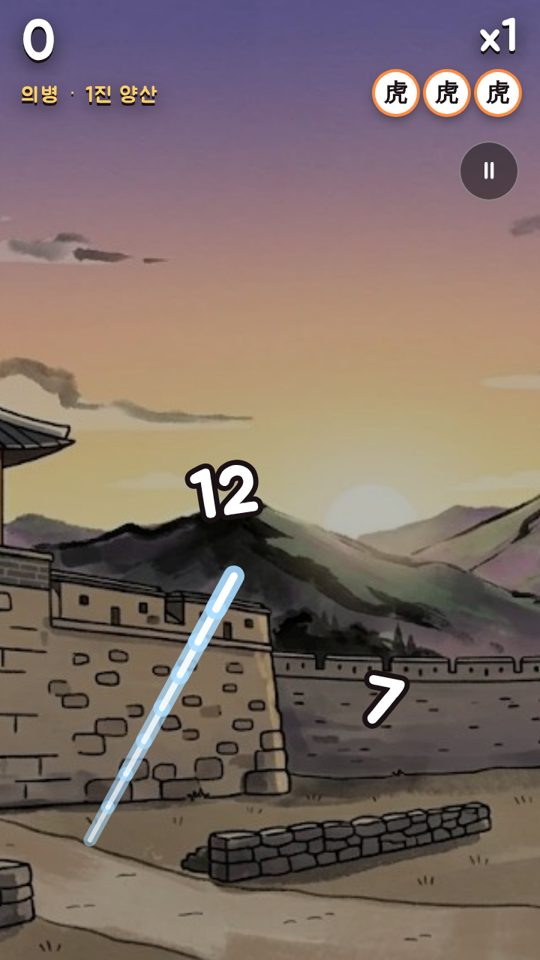
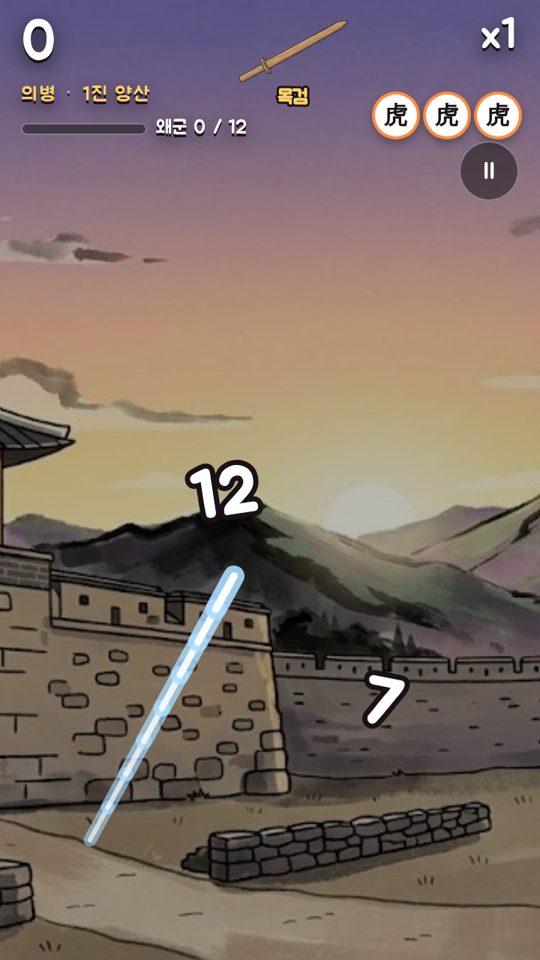
태블릿 화면 대응: 숫자·HUD 크기를 화면에 비례해 확대, 게임 방법 슬라이드 재촬영
Claude-Session: https://claude.ai/code/session_01CNYAtjoa8qW1Yic46L4mLL

Changed region(s): [[0.6815, 0.0, 0.9778, 0.1562], [0.0296, 0.0625, 0.4741, 0.1562], [0.4444, 0.0, 0.6519, 0.125]]

diff --git a/tools/capture-howto.js b/tools/capture-howto.js
@@ -14,8 +14,10 @@ const OUT = process.env.OUT;
     const g = window.__game; g.paused = true; g.numbers = []; g.particles = []; g.floaters = []; g.trail = [];
     g.stageBanner.until = 0; g.flash = null; g.spawnTimer = 99999; g.strokeId = (g.strokeId || 0) + 1;
     g.elapsed = 10000; g.score = opts.score || 0; g.lives = opts.lives || 3; g.streak = opts.streak || 0; g.multiplier = 1 + Math.floor(g.streak / 4);
-    g.stageIndex = opts.stage || 0;
-    g.emit('score', g.score); g.emit('lives', g.lives); g.emit('combo', g.multiplier); g.emit('stage', g.stageInfo());
+    g.stageIndex = opts.stage || 0; g.splits = opts.splits != null ? opts.splits : (g.diff.splitsPerStage * g.stageIndex);
+    g.stageStart = g.elapsed; g.swing = null;
+    g.emit('score', g.score); g.emit('lives', g.lives); g.emitCombo(); g.emit('stage', g.stageInfo());
+    g.lastProgress = ''; g.emitProgress();
   }, opts);
   const shot = (n) => page.screenshot({ path: `${OUT}/step-${n}.png` });
   // 베기 후 조각을 양옆으로 벌리고, 궤적은 숫자 중심까지만
@@ -23,7 +25,7 @@ const OUT = process.env.OUT;
     L.x -= 62; L.y -= 26; L.rot = -0.25; R.x += 62; R.y -= 26; R.rot = 0.25; g.render(performance.now()); });
 
   // 1. 숫자가 튀어오름 + 칼 궤적
-  await reset({ score: 0 });
+  await reset({ score: 0, splits: 0 });
   await page.evaluate(() => { const g = window.__game;
     const a = g.makeNumber(12, 150, 330, 0, -120); a.rot = -0.15; const b = g.makeNumber(7, 255, 470, 0, -300); b.rot = 0.2;
     g.numbers.push(a, b); const now = performance.now();
@@ -32,7 +34,7 @@ const OUT = process.env.OUT;
   await shot(1);
 
   // 2. 18 → 3 × 6
-  await reset({ score: 3, streak: 3 });
+  await reset({ score: 3, streak: 3, splits: 3 });
   await page.evaluate(() => { const g = window.__game; NumMath.randomPair = () => [3, 6];
     const n = g.makeNumber(18, 180, 300, 0, -80); g.numbers.push(n);
     g.strokeId += 1; g.cut(n, 100, 360, 260, 240);
@@ -41,7 +43,7 @@ const OUT = process.env.OUT;
   await spread(); await shot(2);
 
   // 3. 6 → 2 × 3 (3은 옆에 남아 있음)
-  await reset({ score: 4, streak: 4 });
+  await reset({ score: 4, streak: 1, splits: 4 });
   await page.evaluate(() => { const g = window.__game; NumMath.randomPair = () => [2, 3];
     const left = g.makeNumber(3, 95, 380, 0, -60); left.rot = -0.2; g.numbers.push(left);
     const n = g.makeNumber(6, 230, 300, 0, -80); g.numbers.push(n);
@@ -51,7 +53,7 @@ const OUT = process.env.OUT;
   await spread(); await shot(3);
 
   // 4. 소수 7 을 베면 "소수!" (양산: 벌칙 없음)
-  await reset({ score: 6, streak: 5 });
+  await reset({ score: 6, streak: 0, splits: 6 });
   await page.evaluate(() => { const g = window.__game;
     const n = g.makeNumber(7, 180, 320, 0, -80); g.numbers.push(n);
     const other = g.makeNumber(10, 290, 470, 0, -200); g.numbers.push(other);
@@ -61,7 +63,7 @@ const OUT = process.env.OUT;
   await shot(4);
 
   // 5. 14 를 놓침 → 목숨 -1
-  await reset({ score: 9, streak: 2, lives: 3 });
+  await reset({ score: 9, streak: 2, lives: 3, splits: 8 });
   await page.evaluate(() => { const g = window.__game;
     const n = g.makeNumber(14, 200, 700, 0, 300); g.onMiss(n); g.flash.until = performance.now() + 100000;
     const other = g.makeNumber(9, 120, 330, 0, -120); g.numbers.push(other);
@@ -69,7 +71,7 @@ const OUT = process.env.OUT;
   await shot(5);
 
   // 6. 제3진 청도 배너
-  await reset({ score: 31, streak: 6, stage: 2 });
+  await reset({ score: 31, streak: 6, stage: 2, splits: 24 });
   await page.evaluate(() => { const g = window.__game; g.showBanner(2); g.stageBanner.until = performance.now() + 100000;
     const a = g.makeNumber(21, 120, 560, 0, -300); g.numbers.push(a);
     const b = g.makeNumber(35, 260, 600, 0, -320); g.numbers.push(b);
@@ -78,7 +80,7 @@ const OUT = process.env.OUT;
   await shot(6);
 
   // 7. 배수 x3 으로 +3
-  await reset({ score: 40, streak: 7 });
+  await reset({ score: 40, streak: 7, splits: 9 });
   await page.evaluate(() => { const g = window.__game; NumMath.randomPair = () => [4, 5];
     const n = g.makeNumber(20, 180, 300, 0, -80); g.numbers.push(n);
     g.strokeId += 1; g.cut(n, 100, 360, 260, 240);

diff --git a/css/style.css b/css/style.css
@@ -147,29 +147,29 @@ body { position: fixed; inset: 0; overscroll-behavior: none; }
   display: flex; justify-content: space-between; align-items: flex-start;
   font-family: var(--font-title); text-shadow: 0 2px 0 #1a1114, 0 4px 12px rgba(0,0,0,0.7);
 }
-.hud-score { font-size: 46px; line-height: 1; color: #fff; }
-.hud-diff { font-size: 14px; color: var(--gold); margin-top: 4px; letter-spacing: 1px; }
-.hud-progress { margin-top: 6px; display: flex; align-items: center; gap: 6px; font-size: 13px; color: #fff; }
-.hud-bar { width: 84px; height: 8px; border-radius: 4px; background: rgba(0,0,0,0.45); border: 1px solid rgba(255,255,255,0.35); overflow: hidden; }
+.hud-score { font-size: clamp(38px, 11vmin, 72px); line-height: 1; color: #fff; }
+.hud-diff { font-size: clamp(13px, 3.4vmin, 22px); color: var(--gold); margin-top: 4px; letter-spacing: 1px; }
+.hud-progress { margin-top: 6px; display: flex; align-items: center; gap: 6px; font-size: clamp(13px, 3.2vmin, 20px); color: #fff; }
+.hud-bar { width: clamp(84px, 20vmin, 150px); height: clamp(8px, 2vmin, 12px); border-radius: 6px; background: rgba(0,0,0,0.45); border: 1px solid rgba(255,255,255,0.35); overflow: hidden; }
 .hud-bar i { display: block; height: 100%; width: 0; background: linear-gradient(90deg, #8fe36b, #ffd166); transition: width 0.25s ease; }
 .hud-progress.countdown .hud-bar i { background: linear-gradient(90deg, #ffd166, #ff8c42); }
 .hud-progress.surge .hud-bar i { background: linear-gradient(90deg, #ff8c42, #ff3b3b); }
 .hud-progress.surge span { color: #ff8c8c; }
 .hud-right { text-align: right; }
 .hud-streak { font-size: 13px; color: #ffd166; min-height: 15px; margin-top: 2px; }
-.hud-combo { font-size: 30px; line-height: 1; color: #fff; transition: transform 0.1s; }
+.hud-combo { font-size: clamp(28px, 7.5vmin, 48px); line-height: 1; color: #fff; transition: transform 0.1s; }
 .hud-combo.hot { color: var(--gold); transform: scale(1.15); }
 .hud-lives { display: flex; gap: 6px; justify-content: flex-end; margin-top: 8px; }
 .life {
-  width: 28px; height: 28px; border-radius: 50%; display: grid; place-items: center;
-  background: #fff; color: #1a1114; font-family: serif; font-weight: 700; font-size: 16px;
+  width: clamp(28px, 7vmin, 44px); height: clamp(28px, 7vmin, 44px); border-radius: 50%; display: grid; place-items: center;
+  background: #fff; color: #1a1114; font-family: serif; font-weight: 700; font-size: clamp(16px, 4vmin, 26px);
   text-shadow: none; box-shadow: 0 0 0 2px var(--tiger), 0 3px 8px rgba(0,0,0,0.5);
 }
 .life.lost { background: rgba(255,255,255,0.15); color: rgba(255,255,255,0.35); box-shadow: 0 0 0 2px rgba(255,255,255,0.2); }
 .hud-pause {
-  position: fixed; right: 14px; top: calc(max(10px, env(safe-area-inset-top)) + 84px);
-  pointer-events: auto; width: 40px; height: 40px; border-radius: 50%; border: 1px solid rgba(255,255,255,0.35);
-  background: rgba(0,0,0,0.45); color: #fff; font-family: var(--font-title); font-size: 16px; cursor: pointer;
+  position: fixed; right: 14px; top: calc(max(10px, env(safe-area-inset-top)) + clamp(84px, 20vmin, 130px));
+  pointer-events: auto; width: clamp(40px, 9vmin, 56px); height: clamp(40px, 9vmin, 56px); border-radius: 50%; border: 1px solid rgba(255,255,255,0.35);
+  background: rgba(0,0,0,0.45); color: #fff; font-family: var(--font-title); font-size: clamp(16px, 3.6vmin, 22px); cursor: pointer;
 }
 
 /* ---------- 순위표 ---------- */

diff --git a/js/game.js b/js/game.js
@@ -391,7 +391,7 @@
 
     fontSize(value) {
       const base = this.unit * 0.12 * this.diff.fontScale;
-      return clamp(base, 30, 76);
+      return clamp(base, 30, 112); // 태블릿에서는 더 크게
     }
 
     gravity() { return this.H * 0.7 * (1 + 0.7 * this.surge()); } // 총공세 때 최대 1.7배 빨리 떨어진다
@@ -687,7 +687,7 @@
         const k = 1 - f.age / f.life;
         ctx.save();
         ctx.globalAlpha = Math.min(1, k * 1.6);
-        ctx.font = "bold " + Math.round(22 * f.scale) + "px 'Jua', sans-serif";
+        ctx.font = "bold " + Math.round(Math.max(22, this.unit * 0.056) * f.scale) + "px 'Jua', sans-serif";
         ctx.textAlign = "center"; ctx.textBaseline = "middle";
         ctx.lineWidth = 5; ctx.strokeStyle = COLORS.stroke; ctx.lineJoin = "round";
         ctx.strokeText(f.text, f.x, f.y);
@@ -749,14 +749,17 @@
       // 현재 칼 표시 (오른쪽 위, 배수·목숨 표시 바로 왼쪽)
       {
         const tier = this.swordTier();
-        const L = Math.min(88, this.unit * 0.24);
-        const cx = W - 118 - L * 0.5;
-        this.drawSword(ctx, cx - L * 0.12, 40, -0.5, tier, L, 0.95);
+        const L = clamp(this.unit * 0.24, 70, 150);
+        const hudRight = document.getElementById("hud-right");
+        const rightW = hudRight ? hudRight.getBoundingClientRect().width + 26 : 118;
+        const cx = W - rightW - L * 0.5;
+        const nameSize = Math.round(clamp(this.unit * 0.036, 13, 22));
+        this.drawSword(ctx, cx - L * 0.12, L * 0.46, -0.5, tier, L, 0.95);
         ctx.save();
-        ctx.font = "bold 13px 'Jua', sans-serif"; ctx.textAlign = "center"; ctx.textBaseline = "top";
+        ctx.font = "bold " + nameSize + "px 'Jua', sans-serif"; ctx.textAlign = "center"; ctx.textBaseline = "top";
         ctx.lineWidth = 3; ctx.strokeStyle = COLORS.stroke; ctx.lineJoin = "round";
-        ctx.strokeText(SWORDS[tier].name, cx, 60);
-        ctx.fillStyle = "#ffd166"; ctx.fillText(SWORDS[tier].name, cx, 60);
+        ctx.strokeText(SWORDS[tier].name, cx, L * 0.68);
+        ctx.fillStyle = "#ffd166"; ctx.fillText(SWORDS[tier].name, cx, L * 0.68);
         ctx.restore();
       }
 

diff --git a/index.html b/index.html
@@ -21,7 +21,7 @@
         <span id="hud-progress-text"></span>
       </div>
     </div>
-    <div class="hud-right">
+    <div class="hud-right" id="hud-right">
       <div class="hud-combo" id="hud-combo">x1</div>
       <div class="hud-streak" id="hud-streak"></div>
       <div class="hud-lives" id="hud-lives"></div>
